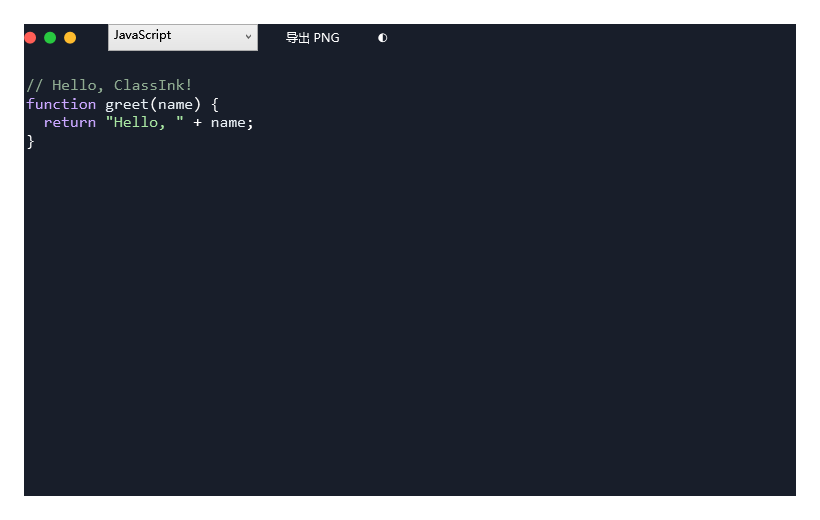
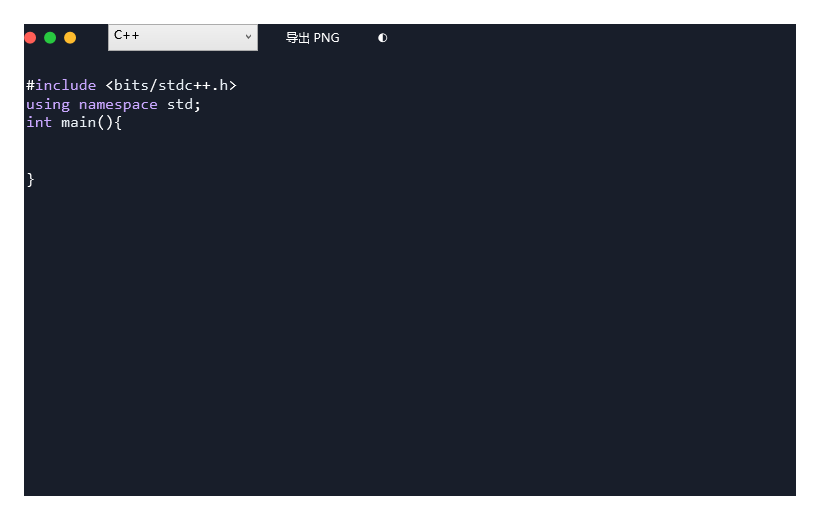
Release v1.7.1: default C++ template and refreshed illustrated documentation

Changed region(s): [[0.0305, 0.1538, 0.3049, 0.2462], [0.122, 0.0615, 0.2134, 0.0923]]

diff --git a/CodeBlockWindow.cs b/CodeBlockWindow.cs
@@ -11,7 +11,7 @@ using Microsoft.Win32;
 namespace ClassInk {
  public sealed class CodeBlockWindow : Window {
   bool light,composing;
-  readonly TextBox editor=new TextBox{AcceptsReturn=true,AcceptsTab=true,FontFamily=new FontFamily("Consolas"),FontSize=16,HorizontalScrollBarVisibility=ScrollBarVisibility.Auto,VerticalScrollBarVisibility=ScrollBarVisibility.Auto,TextWrapping=TextWrapping.NoWrap,Padding=new Thickness(12),BorderThickness=new Thickness(0),Text="// Hello, ClassInk!\nfunction greet(name) {\n  return \"Hello, \" + name;\n}"};
+  readonly TextBox editor=new TextBox{AcceptsReturn=true,AcceptsTab=true,FontFamily=new FontFamily("Consolas"),FontSize=16,HorizontalScrollBarVisibility=ScrollBarVisibility.Auto,VerticalScrollBarVisibility=ScrollBarVisibility.Auto,TextWrapping=TextWrapping.NoWrap,Padding=new Thickness(12),BorderThickness=new Thickness(0),Text="#include <bits/stdc++.h>\nusing namespace std;\nint main(){\n\n\n}"};
   readonly ComboBox language=new ComboBox{Width=150,Margin=new Thickness(0,0,12,0)};
   readonly TextBlock code=new TextBlock{FontFamily=new FontFamily("Consolas"),FontSize=16,Foreground=Brushes.White};
   readonly Border card=new Border{Background=new SolidColorBrush(Color.FromRgb(24,30,42)),Padding=new Thickness(24),CornerRadius=new CornerRadius(12),HorizontalAlignment=HorizontalAlignment.Left,VerticalAlignment=VerticalAlignment.Top};
@@ -21,7 +21,7 @@ namespace ClassInk {
    Title="课堂笔 · 代码块";Width=960;Height=640;MinWidth=640;MinHeight=420;WindowStartupLocation=WindowStartupLocation.CenterScreen;Background=ColorBrush("#181E2A");
    var root=new DockPanel{Margin=new Thickness(24)};Content=root;
    var bar=new StackPanel{Orientation=Orientation.Horizontal,Margin=new Thickness(0,0,0,24)};var dots=EditorChrome.Dots();dots.Margin=new Thickness(0,0,24,0);dots.VerticalAlignment=VerticalAlignment.Center;bar.Children.Add(dots);DockPanel.SetDock(bar,Dock.Top);root.Children.Add(bar);
-   foreach(string name in new[]{"JavaScript","TypeScript","Python","C#","C++","Java","JSON","HTML","CSS","SQL","纯文本"})language.Items.Add(name);language.SelectedIndex=0;bar.Children.Add(language);
+   foreach(string name in new[]{"JavaScript","TypeScript","Python","C#","C++","Java","JSON","HTML","CSS","SQL","纯文本"})language.Items.Add(name);language.SelectedItem="C++";bar.Children.Add(language);
    var export=new Button{Content="导出 PNG",Padding=new Thickness(16,6,16,6)};bar.Children.Add(export);export.Click+=(s,e)=>Export();
    EditorChrome.Style(export);export.ToolTip="导出完整代码图片";
    var theme=new Button{Content="◐",ToolTip="切换黑白风格",Padding=new Thickness(12,6,12,6),Margin=new Thickness(10,0,0,0)};EditorChrome.Style(theme);bar.Children.Add(theme);

diff --git a/ClassInk.cs b/ClassInk.cs
@@ -19,8 +19,8 @@ using Microsoft.Win32;
 
 [assembly: System.Reflection.AssemblyTitle("课堂笔 ClassInk")]
 [assembly: System.Reflection.AssemblyProduct("ClassInk")]
-[assembly: System.Reflection.AssemblyVersion("1.7.0.0")]
-[assembly: System.Reflection.AssemblyFileVersion("1.7.0.0")]
+[assembly: System.Reflection.AssemblyVersion("1.7.1.0")]
+[assembly: System.Reflection.AssemblyFileVersion("1.7.1.0")]
 
 namespace ClassInk {
  public sealed class ToolIcon : FrameworkElement {

diff --git a/CHANGELOG.md b/CHANGELOG.md
@@ -1,5 +1,10 @@
 # 更新记录
 
+## v1.7.1 · 2026-11-22
+
+- 代码块默认语言改为 C++，提供 bits/stdc++.h、using namespace std 和 main 初始模板。
+- 同步 README 与黑白主题功能展示图。
+
 ## v1.7.0 · 2026-11-22
 
 - 新增 Alt + 1 截图贴到板书，保留 Ctrl + Alt + C，更新程序及文档快捷键说明。
